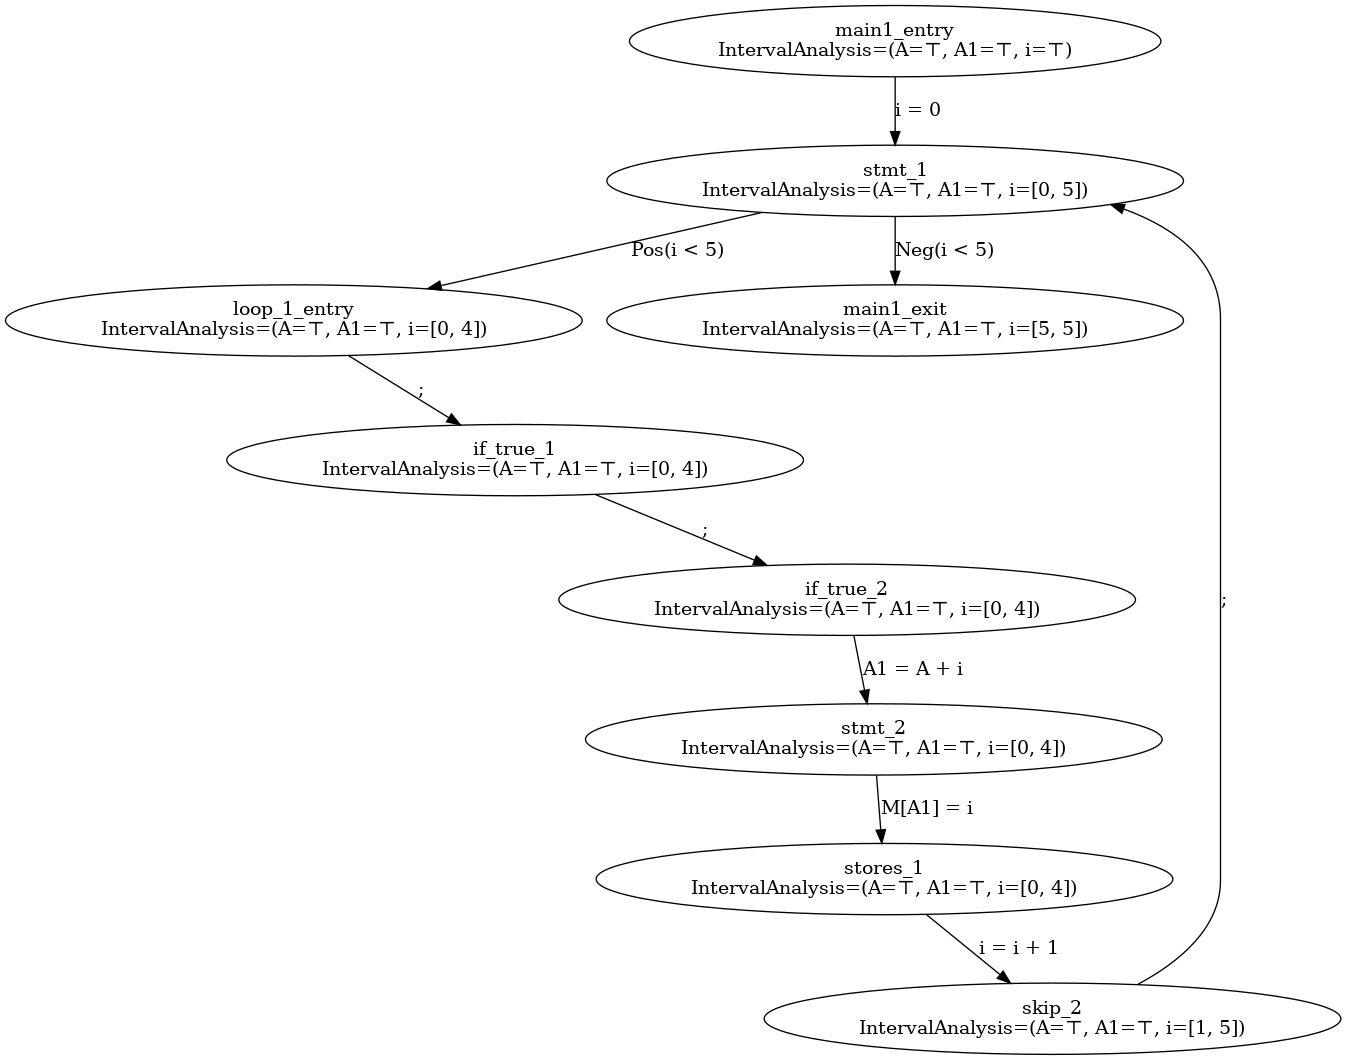
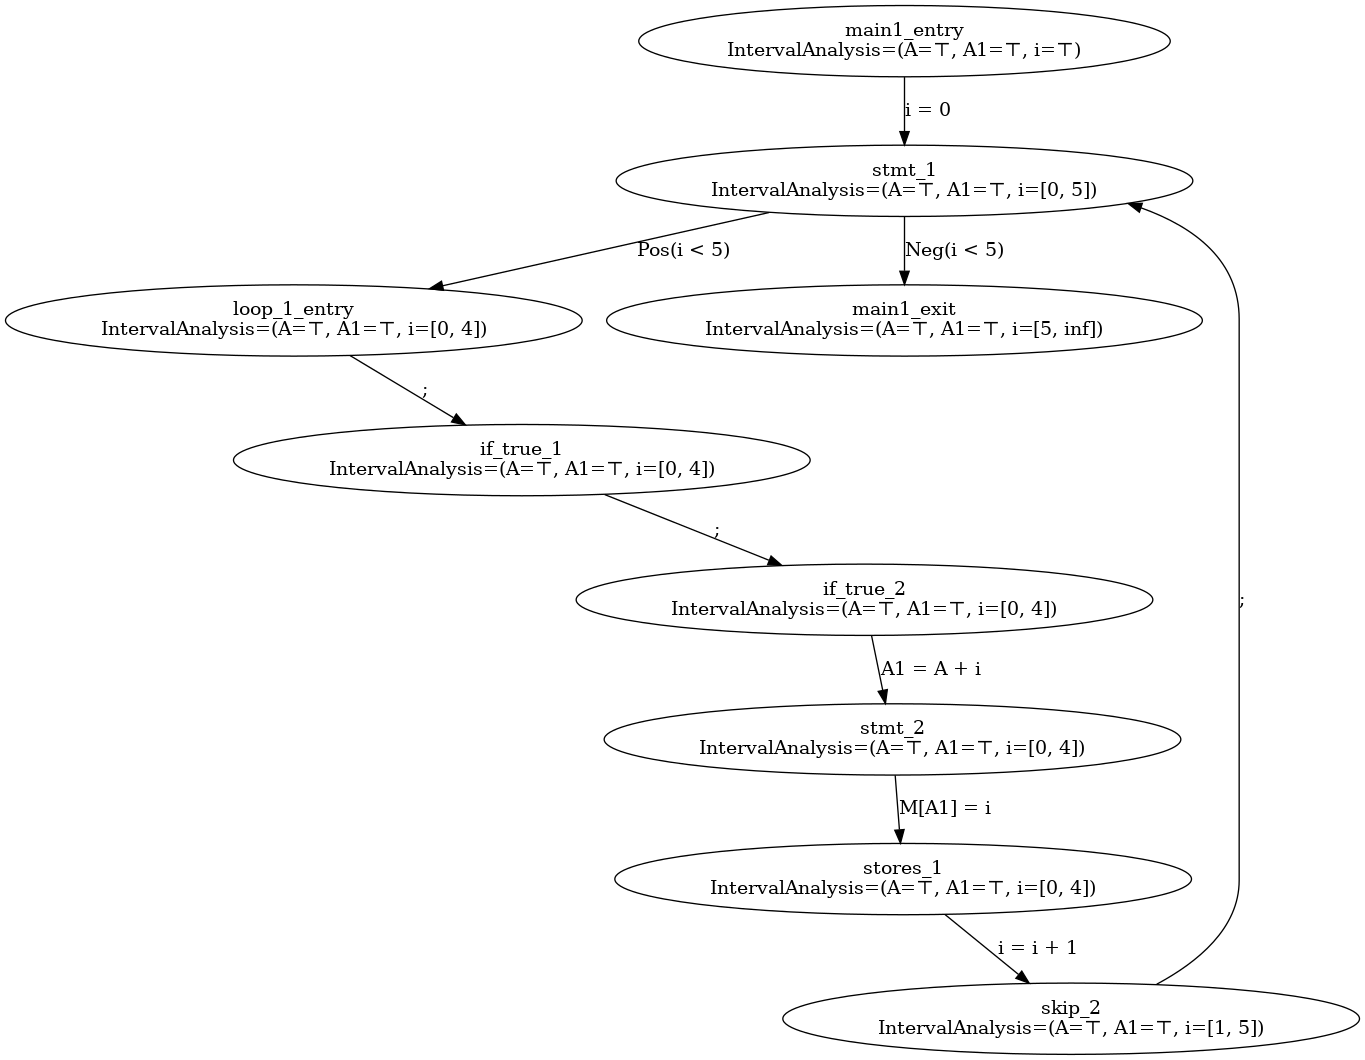
fix narrowing

diff --git a/optimizer/solver/round_robin.py b/optimizer/solver/round_robin.py
@@ -146,7 +146,10 @@ class RoundRobinSolver(Solver):
         if analysis.use_narrow:
             # backward
             def comb(node: CFG.Node):
-                return ("⩎", analysis.lattice.narrow)
+                if analysis.use_narrow and ((self.widen_strategy == 'loop_separator' and node.is_loop_separator) or self.widen_strategy == 'always'):
+                    return ("⩎", analysis.lattice.narrow)
+                else:
+                    return ("⊔", analysis.lattice.join)
 
             iter += self.find_fixpoint("Narrowing", states,
                                        analysis, comb, self.max_narrow_iterations)
